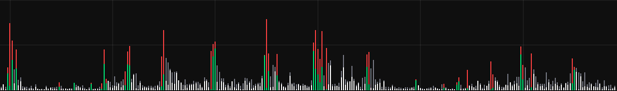
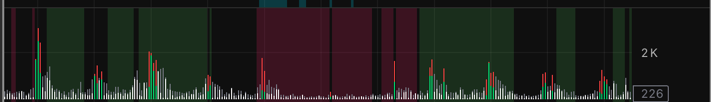
Update abnormal volume indicator docs

diff --git a/pinescript/비정상 거래량 추적/README.md b/pinescript/비정상 거래량 추적/README.md
@@ -1,4 +1,4 @@
-# Buy/Sell Volume + Abnormal Volume
+# Buy/Sell Volume + Abnormal Volume + Alignment Background
 
 트레이딩뷰에서 사용할 수 있는 Pine Script 지표 설명서입니다.
 
@@ -7,96 +7,95 @@
 
 ## 개요
 
-이 지표는 전체 거래량을 단순히 하나의 막대로만 보는 대신, 캔들 구조를 기준으로 `Buy Volume`과 `Sell Volume`을 나누어 표시합니다.
+이 지표는 거래량을 `Buy Volume`과 `Sell Volume`으로 나눠 보여주고, 평소보다 큰 거래량이 나왔는지 함께 표시합니다.
 
-여기에 최근 평균 거래량 대비 비정상적으로 큰 거래량이 발생했는지도 함께 구분해서, 평소 거래량과 강한 거래량 유입 구간을 한눈에 확인할 수 있도록 구성된 스크립트입니다.
+지금 버전에서는 여기에 `추세 정렬 배경`까지 추가되어, 단순히 거래량만 보는 것이 아니라 현재 시장이 상승 정렬인지 하락 정렬인지도 같이 볼 수 있습니다.
 
 ## 트레이딩뷰 적용 방법
 
 1. 트레이딩뷰에서 `Pine Editor`를 엽니다.
-2. [`main.pine`](./main.pine) 파일의 전체 내용을 복사합니다.
+2. [`main.pine`](./main.pine) 파일 전체를 복사합니다.
 3. Pine Editor에 붙여넣습니다.
-4. `Add to chart` 또는 `차트에 추가`를 클릭합니다.
-5. 필요하면 `Save`로 개인 스크립트로 저장합니다.
+4. `차트에 추가`를 누릅니다.
+5. 필요하면 저장합니다.
 
 ## 예시 화면
 
 ![지표 예시 화면](./img.png)
 
-위 예시 화면에서는 아래 요소를 확인할 수 있습니다.
+위 이미지에서 볼 수 있는 핵심은 아래 3가지입니다.
 
-- 회색 막대: 일반 `Sell Volume`
-- 흰색 막대: 일반 `Buy Volume`
-- 빨간색 막대: 비정상 거래량이 동반된 `Sell Volume`
-- 연두색 막대: 비정상 거래량이 동반된 `Buy Volume`
+- 흰색/회색 막대: 일반 매수/매도 거래량
+- 연두색/빨간색 막대: 비정상 거래량이 붙은 매수/매도 구간
+- 초록색/자주색 배경: 추세 정렬이 맞는 구간
 
-즉, 거래량 크기 자체뿐 아니라, 현재 봉에서 어느 쪽 압력이 상대적으로 컸는지와 비정상 거래량 발생 여부를 함께 볼 수 있습니다.
+쉽게 해석하면:
+
+- `막대 색`은 거래량의 성격
+- `배경 색`은 시장 방향의 정렬 상태
 
 ## 기본 정보
 
-- Pine Script 버전: `@version=5`
+- Pine Script 버전: `@version=6`
 - 표시 위치: 별도 패널
 - 포맷: `format.volume`
-- 지표명: `Buy/Sell Volume + Abnormal Volume`
+- 지표명: `Buy/Sell Volume + Abnormal Volume + Alignment Background`
 
 ## 주요 기능
 
-### 1. Buy / Sell Volume 분리 계산
+### 1. Buy / Sell Volume 분리
 
-스크립트는 캔들의 고가, 저가, 종가 위치를 바탕으로 거래량을 매수 우위와 매도 우위로 나누어 계산합니다.
+캔들 구조를 바탕으로 거래량을 매수 우위와 매도 우위로 나눠 보여줍니다.
 
-- `buyVolume`: 종가가 저가 대비 얼마나 위에서 마감했는지 기준으로 계산
-- `sellVolume`: 종가가 고가 대비 얼마나 아래에서 마감했는지 기준으로 계산
+- 종가가 봉 아래보다 위에서 마감할수록 `Buy Volume`이 커집니다.
+- 종가가 봉 위쪽보다 아래에서 마감할수록 `Sell Volume` 성격이 강해집니다.
 
-고가와 저가가 같은 특수한 봉에서는 0으로 처리해 분모 0 오류를 방지합니다.
+### 2. 비정상 거래량 표시
 
-### 2. 비정상 거래량 감지
+현재 거래량이 최근 평균보다 충분히 크면 비정상 거래량으로 표시합니다.
 
-- `length`: 평균 거래량을 계산할 비교 봉 수
-- `multiplier`: 평균 대비 얼마나 커야 비정상 거래량으로 볼지 정하는 배수
+주요 설정:
 
-현재 거래량이 아래 조건을 만족하면 비정상 거래량으로 판단합니다.
+- `비교 캔들 수`
+- `비정상 배수`
 
-- `volume > ta.sma(volume, length) * (1 + multiplier)`
+쉽게 말해, `평소보다 유난히 큰 거래량`이 붙은 봉을 바로 찾는 기능입니다.
 
-예를 들어:
-- `length = 20`
-- `multiplier = 1.0`
+### 3. Alignment Background
 
-이면 최근 20개 봉 평균 거래량보다 2배를 초과하는 거래량이 발생했을 때 비정상으로 표시됩니다.
+이번 버전에서 추가된 핵심 기능입니다.
 
-### 3. 색상 구분
+내부적으로 아래 기준을 계산해서 배경색을 보여줍니다.
 
-기본 색상 설정:
+- 스윙 기준 적응형 VWAP
+- Ichimoku Base Line
+- 이동평균선(MA)
 
-- `normalBuyColor`: 일반 Buy 거래량 색상
-- `normalSellColor`: 일반 Sell 거래량 색상
-- `abnormalBuyColor`: 비정상 Buy 거래량 색상
-- `abnormalSellColor`: 비정상 Sell 거래량 색상
+정렬 조건은 아래와 같습니다.
 
-비정상 거래량이 감지되면 일반 색상 대신 비정상 색상이 적용됩니다.
+- 강세 정렬: `MA > Base Line > VWAP`
+- 약세 정렬: `MA < Base Line < VWAP`
 
-### 4. 거래량 시각화
+차트 해석은 아주 단순하게 하면 됩니다.
 
-아래 두 개의 컬럼 plot이 함께 표시됩니다.
-
-- `Sell Volume`: 전체 거래량 막대
-- `Buy Volume`: 매수 우위로 계산된 거래량 막대
-
-이 방식으로 바닥에는 전체 거래량 흐름이 유지되고, 그 위에 Buy 성격의 거래량이 겹쳐 표시되어 상대 강도를 직관적으로 볼 수 있습니다.
+- 초록 배경: 상승 쪽 정렬이 맞는 구간
+- 자주 배경: 하락 쪽 정렬이 맞는 구간
 
 ## 추천 사용 흐름
 
-1. 현재 봉의 전체 거래량 크기를 먼저 확인합니다.
-2. Buy Volume 비중이 큰지, Sell Volume 성격이 강한지 확인합니다.
-3. 비정상 색상으로 바뀐 봉이 있는지 봅니다.
-4. 추세 전환 구간이나 돌파 구간에서 비정상 거래량이 동반되는지 확인합니다.
+1. 먼저 배경색으로 시장 정렬이 위인지 아래인지 봅니다.
+2. 그다음 거래량 막대 색으로 매수/매도 힘을 봅니다.
+3. 정렬과 거래량 방향이 같을 때만 신호를 강하게 봅니다.
 
-이 지표는 진입 신호 자체를 주는 스크립트라기보다, 거래량의 성격과 강도를 보조적으로 해석하는 데 적합합니다.
+예시:
+
+- `초록 배경 + 강한 매수 거래량` = 롱 쪽 참고
+- `자주 배경 + 강한 매도 거래량` = 숏 쪽 참고
+- `배경과 거래량이 반대` = 애매하므로 약하게 보기
 
 ## 주의사항
 
-- 실제 체결 데이터를 매수/매도로 직접 분리한 것이 아니라, 캔들 구조를 기반으로 비중을 추정하는 방식입니다.
-- `multiplier`를 너무 낮게 두면 비정상 거래량 표시가 과도하게 많아질 수 있습니다.
-- 종목과 타임프레임에 따라 적절한 `length`, `multiplier` 값이 달라질 수 있습니다.
-- 거래량이 적은 종목에서는 색상 신호가 왜곡되거나 해석 가치가 낮아질 수 있습니다.
+- 이 지표는 자동 진입 신호가 아니라 보조 해석용입니다.
+- 거래량 색만 보고 진입하지 말고, 배경 정렬과 가격 구조를 같이 봐야 합니다.
+- `비정상 배수`를 너무 낮추면 색이 너무 자주 바뀔 수 있습니다.
+- 횡보장에서는 배경색 신호가 자주 바뀌어 해석이 어려워질 수 있습니다.
